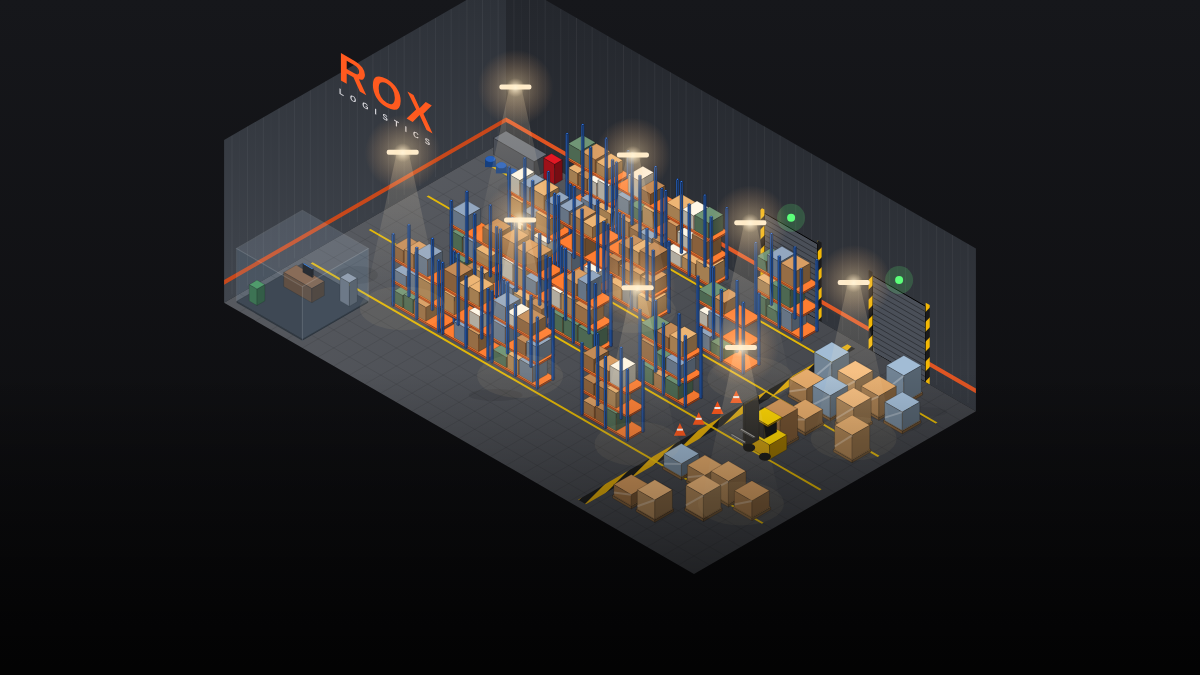
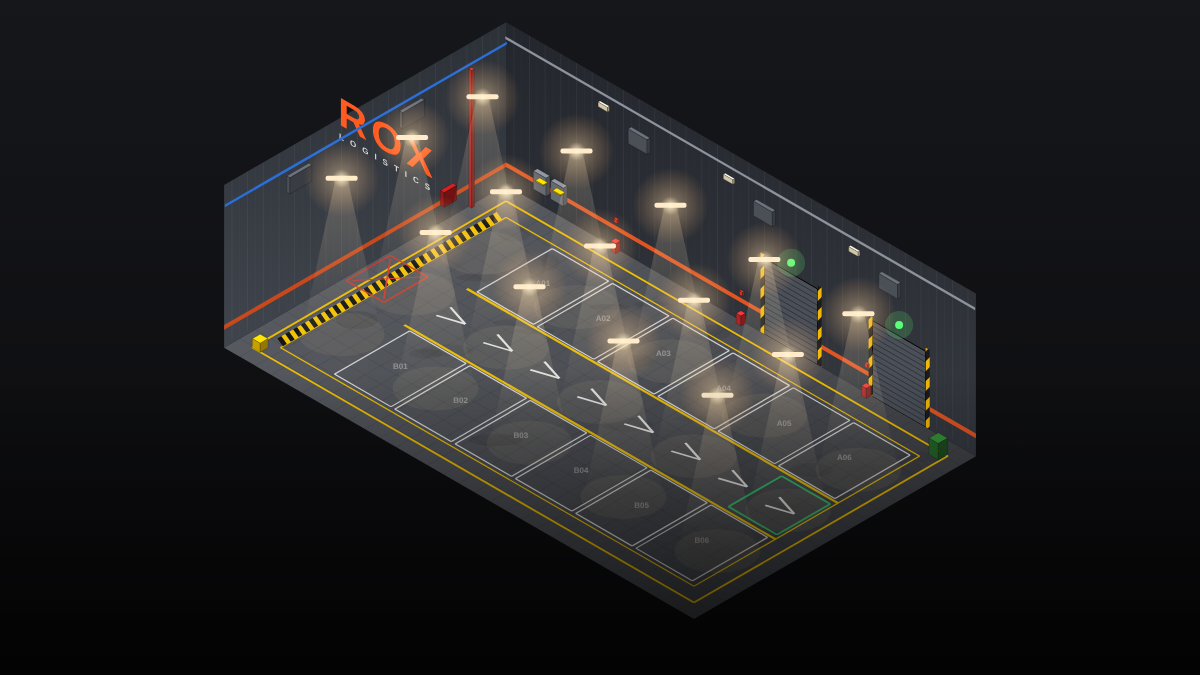
Warehouse default: empty but fully detailed building
- New default design 'ROX Empty · Detailed': no stock, detailed building instead
- Painted floor (walkways, hazard band, keep-clear box, forklift lane with arrows, numbered bays, loading box)
- Ceiling spotlight grid, hanging lamps, dust in the beams
- Wall utilities: keypad, electrical panels, fire riser and hose reel, first aid, extinguishers, alarms, vents, wall lights, CCTV
- Wall-mount helper and correct headings for mirrored layouts
- New artwork for the empty warehouses

Claude-Session: https://claude.ai/code/session_017uaqaBb1JALY7fSod1aJk8

Changed region(s): [[0.185, 0.0, 0.8325, 0.9022]]

diff --git a/rox_realestate/html/app.js b/rox_realestate/html/app.js
@@ -420,7 +420,7 @@ Views.detail = () => {
         const styles = S.st.decorStyles || [];
         extra = `<div class="section-title">${t('decor_title')}</div>
             <div class="decor-grid">${styles.map((d) => `<button class="decor-opt ${p.decor === d.key ? 'on' : ''}" data-act="setdecor" data-id="${p.id}" data-v="${d.key}">
-                ${icon({ logistics: 'box', storage: 'grid', workshop: 'briefcase', off: 'x' }[d.key] || 'box')}<b>${esc(LANG === 'ar' && d.labelAr ? d.labelAr : d.label)}</b></button>`).join('')}</div>
+                ${icon({ empty: 'building', logistics: 'box', storage: 'grid', workshop: 'briefcase', off: 'x' }[d.key] || 'box')}<b>${esc(LANG === 'ar' && d.labelAr ? d.labelAr : d.label)}</b></button>`).join('')}</div>
             <div class="hint">${t('decor_hint')}</div>` + extra;
     }
     const alert = p.isOwner && p.overdue > 0 ? `<div class="alert">${icon('alert')}${t('overdue_alert', p.overdue, S.st.maxOverdue)}</div>` : '';
@@ -1020,12 +1020,12 @@ if (!IS_GAME) {
     const P = (id, label, interior, status, x, y, extra = {}) => ({ id, label, interior, status, ptype: 'sale', price: 180000 + id * 25000, rentPrice: 2500, rentDays: 7, door: { x, y, z: 30, h: 0 }, street: 'Alta St, Pillbox Hill', locked: true, rooms: 2, realtorName: 'Saad Realty', ...extra });
     Mock.data = {
         name: 'Jaber Ali', money: 42347, serverId: 1, isRealtor: true, canManage: true, grade: 3, apps: { create: true, manage: true, contracts: true },
-        properties: [P(1, 'ROX Logistics Depot', 'rox_wh_large', 'owned', -47, -585, { isOwner: true, hasKey: true, ownerName: 'Jaber Ali', keys: [], hasDecor: true, decor: 'logistics' }),
+        properties: [P(1, 'ROX Logistics Depot', 'rox_wh_large', 'owned', -47, -585, { isOwner: true, hasKey: true, ownerName: 'Jaber Ali', keys: [], hasDecor: true, decor: 'empty' }),
             P(2, 'Vinewood Villa', 'franklin_vinewood', 'available', 7, 538), P(3, 'Grove Room', 'low_apartment', 'rented', -14, -1440, { ptype: 'rent', isOwner: true, hasKey: true, ownerName: 'Jaber Ali', overdue: 1, rentDue: Date.now() / 1000 + 86400 }),
             P(4, 'Conker Hills', 'north_conker', 'owned', 342, 437, { ownerName: 'Omar', salePrice: 650000 }), P(5, 'Mirror Park 4', 'medium_apartment', 'available', 1100, -500, { ptype: 'rent' })],
         contracts: [{ id: 7, propertyId: 2, ctype: 'sale', price: 230000, rentPrice: 0, rentDays: 7, buyerName: 'Jaber Ali', realtorName: 'Saad Realty', status: 'pending', isMine: true, createdAt: Date.now() / 1000, expiresAt: Date.now() / 1000 + 1700, label: 'Vinewood Villa', interior: 'franklin_vinewood', street: 'Wild Oats Dr', rooms: 4 }],
     };
-    const st = { locale: 'en', defaultLocale: 'en', wallpaper: 'img/wallpapers/street.jpg', currency: '$', interiors: ints, furniture: furn, categories: cats, maxFurniture: 25, furnitureImage: false, map: { image: 'img/map.jpg', minX: -4140, maxX: 4860, minY: -4300, maxY: 8400 }, rentDays: 7, directPurchase: true, marketplace: true, marketTax: 0.05, sellBack: 0.5, maxKeys: 5, maxOverdue: 3, contractMinutes: 30, visit: true, decorStyles: [{ key: 'logistics', label: 'Logistics Hub', labelAr: 'مركز لوجستي' }, { key: 'off', label: 'Empty', labelAr: 'فاضي' }, { key: 'storage', label: 'Dense Storage', labelAr: 'تخزين كثيف' }, { key: 'workshop', label: 'Workshop Garage', labelAr: 'ورشة وكراج' }] };
+    const st = { locale: 'en', defaultLocale: 'en', wallpaper: 'img/wallpapers/street.jpg', currency: '$', interiors: ints, furniture: furn, categories: cats, maxFurniture: 25, furnitureImage: false, map: { image: 'img/map.jpg', minX: -4140, maxX: 4860, minY: -4300, maxY: 8400 }, rentDays: 7, directPurchase: true, marketplace: true, marketTax: 0.05, sellBack: 0.5, maxKeys: 5, maxOverdue: 3, contractMinutes: 30, visit: true, decorStyles: [{ key: 'empty', label: 'ROX Empty · Detailed', labelAr: 'ROX فاضي · بالتفاصيل' }, { key: 'logistics', label: 'Logistics Hub', labelAr: 'مركز لوجستي' }, { key: 'off', label: 'Bare (no details)', labelAr: 'بدون أي إضافات' }, { key: 'storage', label: 'Dense Storage', labelAr: 'تخزين كثيف' }, { key: 'workshop', label: 'Workshop Garage', labelAr: 'ورشة وكراج' }] };
     const q = new URLSearchParams(location.search);
     if (q.get('lang')) S.settings.lang = q.get('lang');
     if (q.get('wall')) S.settings.wallpaper = `img/wallpapers/${q.get('wall')}.jpg`;

diff --git a/rox_realestate/html/style.css b/rox_realestate/html/style.css
@@ -497,3 +497,4 @@ html[dir="rtl"] .fp-head h2 { font-family: 'Cairo'; font-style: normal; font-wei
 .decor-opt.on svg { color: var(--accent); }
 .icard .ph .rox-chip { inset-inline-start: auto; inset-inline-end: 8px; background: linear-gradient(135deg, #ff7a3d, #e0441a); color: #fff; }
 .icard .ph .rox-chip + .chip { inset-inline-end: 52px; }
+.decor-grid { grid-template-columns: repeat(auto-fit, minmax(110px, 1fr)); }

diff --git a/rox_realestate/docs/warehouse_art_generator.py b/rox_realestate/docs/warehouse_art_generator.py
@@ -4,7 +4,7 @@ C, S_ = math.cos(math.radians(30)), math.sin(math.radians(30))
 def make(variant, W, D, H, seed, title):
     random.seed(seed)
     scale = 560 / (W + D) * 1.55
-    ox, oy = 600 + (D - W) * C * scale / 2, 140
+    ox, oy = 600 + (D - W) * C * scale / 2, 185
     def P(x, y, z):
         return (ox + (x - y) * C * scale, oy + (x + y) * S_ * scale - z * scale)
     def poly(pts, fill, stroke='none', sw=0, op=1, extra=''):
@@ -80,7 +80,8 @@ def make(variant, W, D, H, seed, title):
     def lane(y0):
         out.append(poly([P(0.6, y0, 0.01), P(W - 0.6, y0, 0.01), P(W - 0.6, y0 + 0.12, 0.01), P(0.6, y0 + 0.12, 0.01)], '#f2c200', op=.9))
     dockX = W * 0.74
-    out.append(poly([P(dockX, 0.4, 0.01), P(dockX + 0.5, 0.4, 0.01), P(dockX + 0.5, D - 0.4, 0.01), P(dockX, D - 0.4, 0.01)], 'url(#haz)', op=.9))
+    if not variant.startswith('empty'):
+        out.append(poly([P(dockX, 0.4, 0.01), P(dockX + 0.5, 0.4, 0.01), P(dockX + 0.5, D - 0.4, 0.01), P(dockX, D - 0.4, 0.01)], 'url(#haz)', op=.9))
     # racks
     rackRows = []
     y = 0.6
@@ -106,7 +107,63 @@ def make(variant, W, D, H, seed, title):
             s += box(px, y0, 0, 0.1, 0.1, levels * 1.25 + 0.2, '#2f6fd6')
             s += box(px, y0 + dep - 0.1, 0, 0.1, 0.1, levels * 1.25 + 0.2, '#2f6fd6')
         return s
-    if variant != 'vehicle':
+    EMPTY = variant.startswith('empty')
+    def flat(pts, fill, op=1):
+        out.append(poly([P(x, y, 0.012) for x, y in pts], fill, op=op))
+    def fline(x0, y0, x1, y1, w, col, op=.95):
+        dx, dy = x1 - x0, y1 - y0; L = math.hypot(dx, dy); nx, ny = -dy / L * w / 2, dx / L * w / 2
+        flat([(x0 + nx, y0 + ny), (x1 + nx, y1 + ny), (x1 - nx, y1 - ny), (x0 - nx, y0 - ny)], col, op)
+    def frect(x0, y0, x1, y1, w, col, op=.95):
+        fline(x0, y0, x1, y0, w, col, op); fline(x1, y0, x1, y1, w, col, op); fline(x1, y1, x0, y1, w, col, op); fline(x0, y1, x0, y0, w, col, op)
+    if EMPTY:
+        m = 0.9
+        frect(m, m, W - m, D - m, 0.12, '#f2c200'); frect(m + 0.9, m + 0.9, W - m - 0.9, D - m - 0.9, 0.08, '#f2c200')
+        c = D / 2; lw = min(4.0, D * 0.28)
+        fline(4.5, c - lw / 2, W - 1.8, c - lw / 2, 0.14, '#f2c200'); fline(4.5, c + lw / 2, W - 1.8, c + lw / 2, 0.14, '#f2c200')
+        u = 5.0
+        while u < W - 3.5:
+            fline(u, c - 0.45, u + 1.4, c, 0.12, '#e8e8e8'); fline(u + 1.4, c, u, c + 0.45, 0.12, '#e8e8e8'); u += 3.0
+        bayD = (D - lw) / 2 - m - 1.3; bayL = max(2.4, min(3.6, bayD * 0.9)); u = 5.0
+        n = 1
+        while u + bayL < W - m - 1.2:
+            for (y0, y1) in ((m + 1.15, m + 1.15 + bayD), (D - m - 1.15 - bayD, D - m - 1.15)):
+                frect(u, y0, u + bayL, y1, 0.08, '#e9e9e9', .85)
+                tp = P(u + bayL / 2, (y0 + y1) / 2, 0.02)
+                out.append(f'<text x="{tp[0]:.1f}" y="{tp[1]:.1f}" font-family="Arial" font-weight="800" font-size="{scale*0.42:.0f}" fill="#ffffff" fill-opacity=".35" text-anchor="middle" transform="rotate(0)">{"A" if y0 < c else "B"}{n:02d}</text>')
+            u += bayL + 0.25; n += 1
+        y = m + 0.9
+        while y < D - m - 1.4:
+            flat([(1.2, y), (1.8, y + 0.25), (1.8, y + 0.5), (1.2, y + 0.25)], '#f2c200')
+            flat([(1.2, y + 0.25), (1.8, y + 0.5), (1.8, y + 0.75), (1.2, y + 0.5)], '#151515')
+            y += 0.5
+        frect(0.2, c - 1.4, 2.6, c + 1.4, 0.1, '#d23a2a'); fline(0.4, c - 1.2, 2.4, c + 1.2, 0.08, '#d23a2a'); fline(0.4, c + 1.2, 2.4, c - 1.2, 0.08, '#d23a2a')
+        frect(W - m - 4.2, c - lw / 2 + 0.3, W - m - 1.1, c + lw / 2 - 0.3, 0.12, '#2fbf6a')
+        # wall details: right wall (y=0) and left wall (x=0)
+        def wallbox_r(x, z, w, h, col, depth=0.25):
+            add(x, 0, 5, box(x, 0, z, w, depth, h, col))
+        def wallbox_l(y, z, w, h, col, depth=0.25):
+            add(0, y, 5, box(0, y, z, depth, w, h, col))
+        for k, x in enumerate([2.0, 3.1]):
+            wallbox_r(x, 0.9, 0.8, 1.0, '#7d828b'); wallbox_r(x + 0.15, 1.4, 0.5, 0.06, '#f2c200', 0.27)
+        add(0, 2, 5, box(0, 2.2, 0, 0.18, 0.18, H - 1.4, '#c62828'))
+        wallbox_l(3.4, 1.0, 0.8, 0.8, '#b71c1c')
+        for x in [6 + i * 8 for i in range(int((W - 6) / 8) + 1)]:
+            if x > W - 2: break
+            wallbox_r(x + 1.0, 0.0, 0.3, 0.55, '#d32f2f', 0.3)
+            wallbox_r(x + 1.0, 1.5, 0.2, 0.2, '#ff3b30', 0.1)
+            wallbox_r(x, H - 1.6, 0.6, 0.25, '#fff1cc', 0.12)
+            wallbox_r(x + 2.0, H - 2.6, 1.2, 0.8, '#5c626b', 0.2)
+        for y in [D * 0.3, D * 0.7]:
+            wallbox_l(y, H - 2.4, 1.4, 0.9, '#5c626b', 0.2)
+        # pipes along the ceiling edge of both walls
+        out.append(poly([P(0, 0.05, H - 0.9), P(W, 0.05, H - 0.9), P(W, 0.05, H - 0.75), P(0, 0.05, H - 0.75)], '#8c939c'))
+        out.append(poly([P(0.05, 0, H - 1.2), P(0.05, D, H - 1.2), P(0.05, D, H - 1.05), P(0.05, 0, H - 1.05)], '#2b6fd6'))
+        # cleaning corner, bins
+        add(0.8, D - 1.0, 5, box(0.9, D - 1.4, 0, 0.5, 0.5, 0.5, '#f2c200'))
+        add(W - 1.4, 0.9, 5, box(W - 1.6, 0.8, 0, 0.6, 0.6, 0.9, '#2e7d32'))
+    if EMPTY:
+        pass
+    elif variant != 'vehicle':
         for ry in rackRows:
             x = 5.5
             while x + 3.2 < dockX - 0.8:
@@ -126,50 +183,53 @@ def make(variant, W, D, H, seed, title):
                     s += f'<ellipse cx="{w[0]:.1f}" cy="{w[1]:.1f}" rx="7" ry="4" fill="#0b0b0b"/>'
                 add(x, ry, 1, s)
             lane(ry + 2.1)
-    # dock pallets
-    for gx in [dockX + 1.0 + i * 1.5 for i in range(int((W - dockX - 1.5) / 1.5))]:
-        for gy in [0.8 + j * 1.6 for j in range(int((D - 1.2) / 1.6))]:
-            if abs(gy - D / 2) < 1.6 or random.random() < 0.25: continue
-            s = box(gx, gy, 0, 1.2, 1.2, 0.14, '#9a7348')
-            h = random.uniform(0.6, 1.6)
-            col = random.choice(['#c3925c', '#b78450', '#d0a06a', '#8aa0b5'])
-            s += box(gx + 0.04, gy + 0.04, 0.14, 1.12, 1.12, h, col)
-            a, b = P(gx + 0.04, gy + 1.16, 0.3), P(gx + 1.16, gy + 1.16, 0.14 + h)
-            s += f'<line x1="{a[0]:.1f}" y1="{a[1]:.1f}" x2="{b[0]:.1f}" y2="{b[1]:.1f}" stroke="#fff" stroke-opacity=".25" stroke-width="2"/>'
-            add(gx, gy, 2, s)
-    # forklift
-    fx, fy = dockX - 0.2 + (W - dockX) * 0.35, D / 2 - 0.6
-    s = box(fx, fy, 0.25, 1.6, 1.1, 0.8, '#f2b705') + box(fx + 0.2, fy + 0.15, 1.05, 0.9, 0.8, 0.9, '#262626', '#3a3a3a')
-    s += box(fx + 0.3, fy + 0.1, 1.9, 1.1, 0.9, 0.08, '#f2b705')
-    s += box(fx - 0.2, fy + 0.1, 0, 0.12, 0.9, 2.4, '#333333') + box(fx - 1.1, fy + 0.2, 0.1, 0.9, 0.1, 0.06, '#888888') + box(fx - 1.1, fy + 0.8, 0.1, 0.9, 0.1, 0.06, '#888888')
-    for wx, wy in ((fx + 0.3, fy + 1.1), (fx + 1.3, fy + 1.1)):
-        w = P(wx, wy, 0.25); s += f'<ellipse cx="{w[0]:.1f}" cy="{w[1]:.1f}" rx="{scale*0.32:.0f}" ry="{scale*0.2:.0f}" fill="#111"/>'
-    add(fx, fy, 3, s)
-    # cones on the dock line
-    for cy in [D / 2 - 1.8, D / 2 - 0.6, D / 2 + 0.6, D / 2 + 1.8]:
-        b = P(dockX - 0.3, cy, 0); t = P(dockX - 0.3, cy, 0.7)
-        add(dockX - 0.3, cy, 4, f'<polygon points="{b[0]-6:.1f},{b[1]:.1f} {b[0]+6:.1f},{b[1]:.1f} {t[0]:.1f},{t[1]:.1f}" fill="#ff5a1f"/><line x1="{b[0]-3:.1f}" y1="{b[1]-6:.1f}" x2="{b[0]+3:.1f}" y2="{b[1]-6:.1f}" stroke="#fff" stroke-width="2"/>')
-    # glass office in the front-left corner
-    ox_, oy_ = 0.4, D - 4.6
-    s = box(ox_, oy_, 0, 4.2, 4.2, 0.08, '#2a2d33')
-    s += box(ox_ + 0.6, oy_ + 1.0, 0, 1.8, 0.8, 0.78, '#6b4b33') + box(ox_ + 1.2, oy_ + 1.1, 0.78, 0.6, 0.08, 0.45, '#101215', '#2c7be5')
-    s += box(ox_ + 3.2, oy_ + 0.3, 0, 0.6, 0.5, 1.3, '#7b808a') + box(ox_ + 0.3, oy_ + 3.2, 0, 0.5, 0.5, 0.9, '#3b7d4a')
-    s += poly([P(ox_ + 4.2, oy_, 0), P(ox_ + 4.2, oy_ + 4.2, 0), P(ox_ + 4.2, oy_ + 4.2, 3.0), P(ox_ + 4.2, oy_, 3.0)], '#9fd3ff', '#cde9ff', 1, .16)
-    s += poly([P(ox_, oy_ + 4.2, 0), P(ox_ + 4.2, oy_ + 4.2, 0), P(ox_ + 4.2, oy_ + 4.2, 3.0), P(ox_, oy_ + 4.2, 3.0)], '#9fd3ff', '#cde9ff', 1, .12)
-    s += poly([P(ox_, oy_, 3.0), P(ox_ + 4.2, oy_, 3.0), P(ox_ + 4.2, oy_ + 4.2, 3.0), P(ox_, oy_ + 4.2, 3.0)], '#cfe6ff', '#e6f3ff', 1.2, .14)
-    add(ox_ + 2, oy_ + 2, 0, s)
-    # workshop corner: bench, tool chest, barrels
-    wx_, wy_ = 0.4, 0.4
-    s = box(wx_, wy_, 0, 2.6, 0.8, 0.9, '#5a5f68') + box(wx_ + 2.9, wy_, 0, 0.7, 0.5, 1.1, '#c0151f')
-    for i in range(3):
-        b = P(wx_ + 0.6 + i * 0.7, wy_ + 1.6, 0)
-        s += f'<ellipse cx="{b[0]:.1f}" cy="{b[1]-scale*0.45:.1f}" rx="{scale*0.3:.0f}" ry="{scale*0.16:.0f}" fill="#1d4f9c"/><rect x="{b[0]-scale*0.3:.1f}" y="{b[1]-scale*0.45:.1f}" width="{scale*0.6:.1f}" height="{scale*0.45:.1f}" fill="#163f7e"/><ellipse cx="{b[0]:.1f}" cy="{b[1]-scale*0.45:.1f}" rx="{scale*0.3:.0f}" ry="{scale*0.16:.0f}" fill="#2660bd"/>'
-    add(wx_ + 1, wy_ + 1, 0, s)
+    if not EMPTY:
+        # dock pallets
+        for gx in [dockX + 1.0 + i * 1.5 for i in range(int((W - dockX - 1.5) / 1.5))]:
+            for gy in [0.8 + j * 1.6 for j in range(int((D - 1.2) / 1.6))]:
+                if abs(gy - D / 2) < 1.6 or random.random() < 0.25: continue
+                s = box(gx, gy, 0, 1.2, 1.2, 0.14, '#9a7348')
+                h = random.uniform(0.6, 1.6)
+                col = random.choice(['#c3925c', '#b78450', '#d0a06a', '#8aa0b5'])
+                s += box(gx + 0.04, gy + 0.04, 0.14, 1.12, 1.12, h, col)
+                a, b = P(gx + 0.04, gy + 1.16, 0.3), P(gx + 1.16, gy + 1.16, 0.14 + h)
+                s += f'<line x1="{a[0]:.1f}" y1="{a[1]:.1f}" x2="{b[0]:.1f}" y2="{b[1]:.1f}" stroke="#fff" stroke-opacity=".25" stroke-width="2"/>'
+                add(gx, gy, 2, s)
+        # forklift
+        fx, fy = dockX - 0.2 + (W - dockX) * 0.35, D / 2 - 0.6
+        s = box(fx, fy, 0.25, 1.6, 1.1, 0.8, '#f2b705') + box(fx + 0.2, fy + 0.15, 1.05, 0.9, 0.8, 0.9, '#262626', '#3a3a3a')
+        s += box(fx + 0.3, fy + 0.1, 1.9, 1.1, 0.9, 0.08, '#f2b705')
+        s += box(fx - 0.2, fy + 0.1, 0, 0.12, 0.9, 2.4, '#333333') + box(fx - 1.1, fy + 0.2, 0.1, 0.9, 0.1, 0.06, '#888888') + box(fx - 1.1, fy + 0.8, 0.1, 0.9, 0.1, 0.06, '#888888')
+        for wx, wy in ((fx + 0.3, fy + 1.1), (fx + 1.3, fy + 1.1)):
+            w = P(wx, wy, 0.25); s += f'<ellipse cx="{w[0]:.1f}" cy="{w[1]:.1f}" rx="{scale*0.32:.0f}" ry="{scale*0.2:.0f}" fill="#111"/>'
+        add(fx, fy, 3, s)
+        # cones on the dock line
+        for cy in [D / 2 - 1.8, D / 2 - 0.6, D / 2 + 0.6, D / 2 + 1.8]:
+            b = P(dockX - 0.3, cy, 0); t = P(dockX - 0.3, cy, 0.7)
+            add(dockX - 0.3, cy, 4, f'<polygon points="{b[0]-6:.1f},{b[1]:.1f} {b[0]+6:.1f},{b[1]:.1f} {t[0]:.1f},{t[1]:.1f}" fill="#ff5a1f"/><line x1="{b[0]-3:.1f}" y1="{b[1]-6:.1f}" x2="{b[0]+3:.1f}" y2="{b[1]-6:.1f}" stroke="#fff" stroke-width="2"/>')
+        # glass office in the front-left corner
+        ox_, oy_ = 0.4, D - 4.6
+        s = box(ox_, oy_, 0, 4.2, 4.2, 0.08, '#2a2d33')
+        s += box(ox_ + 0.6, oy_ + 1.0, 0, 1.8, 0.8, 0.78, '#6b4b33') + box(ox_ + 1.2, oy_ + 1.1, 0.78, 0.6, 0.08, 0.45, '#101215', '#2c7be5')
+        s += box(ox_ + 3.2, oy_ + 0.3, 0, 0.6, 0.5, 1.3, '#7b808a') + box(ox_ + 0.3, oy_ + 3.2, 0, 0.5, 0.5, 0.9, '#3b7d4a')
+        s += poly([P(ox_ + 4.2, oy_, 0), P(ox_ + 4.2, oy_ + 4.2, 0), P(ox_ + 4.2, oy_ + 4.2, 3.0), P(ox_ + 4.2, oy_, 3.0)], '#9fd3ff', '#cde9ff', 1, .16)
+        s += poly([P(ox_, oy_ + 4.2, 0), P(ox_ + 4.2, oy_ + 4.2, 0), P(ox_ + 4.2, oy_ + 4.2, 3.0), P(ox_, oy_ + 4.2, 3.0)], '#9fd3ff', '#cde9ff', 1, .12)
+        s += poly([P(ox_, oy_, 3.0), P(ox_ + 4.2, oy_, 3.0), P(ox_ + 4.2, oy_ + 4.2, 3.0), P(ox_, oy_ + 4.2, 3.0)], '#cfe6ff', '#e6f3ff', 1.2, .14)
+        add(ox_ + 2, oy_ + 2, 0, s)
+        # workshop corner: bench, tool chest, barrels
+        wx_, wy_ = 0.4, 0.4
+        s = box(wx_, wy_, 0, 2.6, 0.8, 0.9, '#5a5f68') + box(wx_ + 2.9, wy_, 0, 0.7, 0.5, 1.1, '#c0151f')
+        for i in range(3):
+            b = P(wx_ + 0.6 + i * 0.7, wy_ + 1.6, 0)
+            s += f'<ellipse cx="{b[0]:.1f}" cy="{b[1]-scale*0.45:.1f}" rx="{scale*0.3:.0f}" ry="{scale*0.16:.0f}" fill="#1d4f9c"/><rect x="{b[0]-scale*0.3:.1f}" y="{b[1]-scale*0.45:.1f}" width="{scale*0.6:.1f}" height="{scale*0.45:.1f}" fill="#163f7e"/><ellipse cx="{b[0]:.1f}" cy="{b[1]-scale*0.45:.1f}" rx="{scale*0.3:.0f}" ry="{scale*0.16:.0f}" fill="#2660bd"/>'
+        add(wx_ + 1, wy_ + 1, 0, s)
+
     for _, svg in sorted(items, key=lambda t: t[0]):
         out.append(svg)
     # lights
-    for lx_ in [W * f for f in (0.2, 0.45, 0.7, 0.92)]:
-        for ly_ in [D * f for f in (0.3, 0.7)]:
+    grid = [(x, y) for x in [3.0 + i * 6.0 for i in range(int((W - 4) / 6) + 1)] for y in ([D * 0.25, D * 0.5, D * 0.75] if D > 13 else [D * 0.3, D * 0.7])] if variant.startswith('empty') else [(x, y) for x in [W * f for f in (0.2, 0.45, 0.7, 0.92)] for y in [D * f for f in (0.3, 0.7)]]
+    for lx_, ly_ in grid:
+        if True:
             c = P(lx_, ly_, H - 0.4); f = P(lx_, ly_, 0)
             out.append(f'<polygon points="{c[0]-6:.1f},{c[1]:.1f} {c[0]+6:.1f},{c[1]:.1f} {f[0]+scale*2.2:.1f},{f[1]:.1f} {f[0]-scale*2.2:.1f},{f[1]:.1f}" fill="url(#cone)"/>')
             out.append(f'<rect x="{c[0]-16:.1f}" y="{c[1]-3:.1f}" width="32" height="5" rx="2" fill="#fff6e0"/><circle cx="{c[0]:.1f}" cy="{c[1]:.1f}" r="38" fill="url(#glow)"/>')
@@ -180,10 +240,10 @@ def make(variant, W, D, H, seed, title):
 
 outdir = sys.argv[1]
 for key, args in {
-    'rox_wh_small':   ('logistics', 16, 11, 6.5, 3, 'SMALL WAREHOUSE'),
-    'rox_wh_medium':  ('logistics', 22, 14, 7.5, 5, 'MEDIUM WAREHOUSE'),
-    'rox_wh_large':   ('logistics', 30, 18, 9.0, 7, 'LARGE WAREHOUSE'),
-    'rox_wh_vehicle': ('vehicle',   26, 16, 8.0, 9, 'VEHICLE WAREHOUSE'),
+    'rox_wh_small':   ('empty', 16, 11, 6.5, 3, 'SMALL WAREHOUSE'),
+    'rox_wh_medium':  ('empty', 22, 14, 7.5, 5, 'MEDIUM WAREHOUSE'),
+    'rox_wh_large':   ('empty', 30, 18, 9.0, 7, 'LARGE WAREHOUSE'),
+    'rox_wh_vehicle': ('empty_vehicle', 26, 16, 8.0, 9, 'VEHICLE WAREHOUSE'),
 }.items():
     open(f'{outdir}/{key}.svg', 'w').write(make(*args))
 print('ok')

diff --git a/rox_realestate/README.md b/rox_realestate/README.md
@@ -149,3 +149,16 @@ Config.Realtor.Apps = { create = 0, manage = 1, contracts = 0 }
 
 الصور: `html/img/houses/rox_wh_*.png` (المولّد: `docs/warehouse_art_generator.py`).
 إذا قطعة موديلها مو موجود في نسخة اللعبة، تنتجاهل تلقائياً. أمر `/roxdecor_debug` يطبع عدد القطع اللي انبنت في F8.
+
+## v1.4 — المخزن فاضي بالتفاصيل (الافتراضي)
+
+التصميم الافتراضي صار **ROX Empty · Detailed**: المخزن **فاضي** (بدون بضاعة أو أثاث) لكن المبنى نفسه مفصّل:
+- **دهان الأرضية**: ممر مشاة أصفر مزدوج حول المخزن، شريط تحذير أصفر/أسود عند المدخل، مربع "ممنوع الوقوف" أحمر عند الباب،
+  ممر رافعات بخطين وأسهم اتجاه، **مواقع تخزين مرقّمة** بإطار أبيض على الجانبين، ومربع تحميل أخضر عند الجدار البعيد.
+- **إضاءة**: شبكة كشافات سقف حقيقية (Spot lights) كل 6 متر + لمبات صناعية معلّقة + غبار خفيف بالضوء.
+- **الجدران**: لوحة دخول (Keypad)، لوحات كهرباء، خط إطفاء + بكرة خرطوم، صندوق إسعاف، طفايات وأجراس إنذار كل 8 متر،
+  إنارات جدارية عالية، فتحات تهوية، كاميرات CCTV بالزوايا.
+- **زاوية نظافة**: سطل، مكنسة، لوحة "أرضية مبللة"، وحاويات.
+
+باقي التصاميم (Logistics / Dense Storage / Workshop) لا زالت موجودة لو المالك يبي مخزن معبّى، و **Bare** = بدون أي إضافة.
+إذا قطعة جدارية طلعت وجهها للجدار، أضف اسمها في `DecorWallFlip` داخل `shared/decor.lua`.
